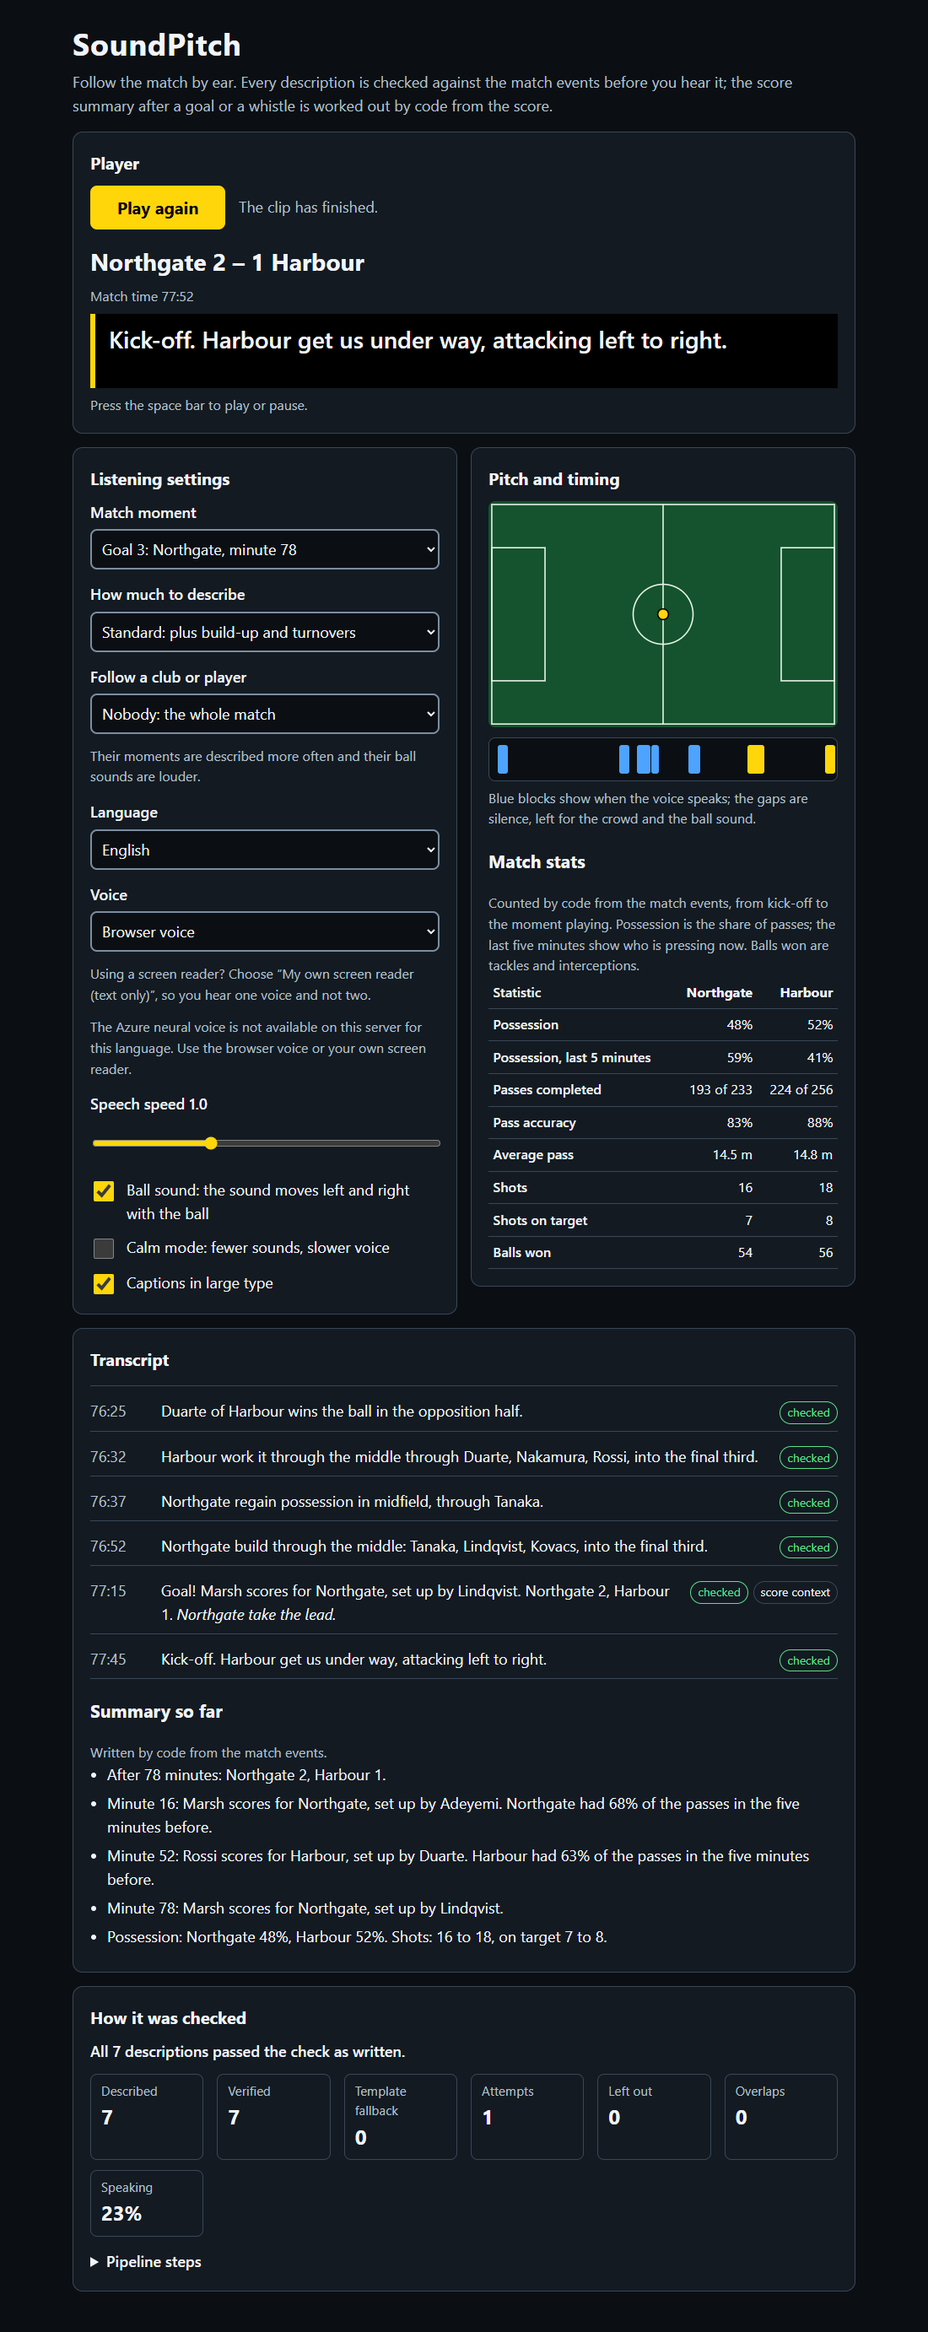
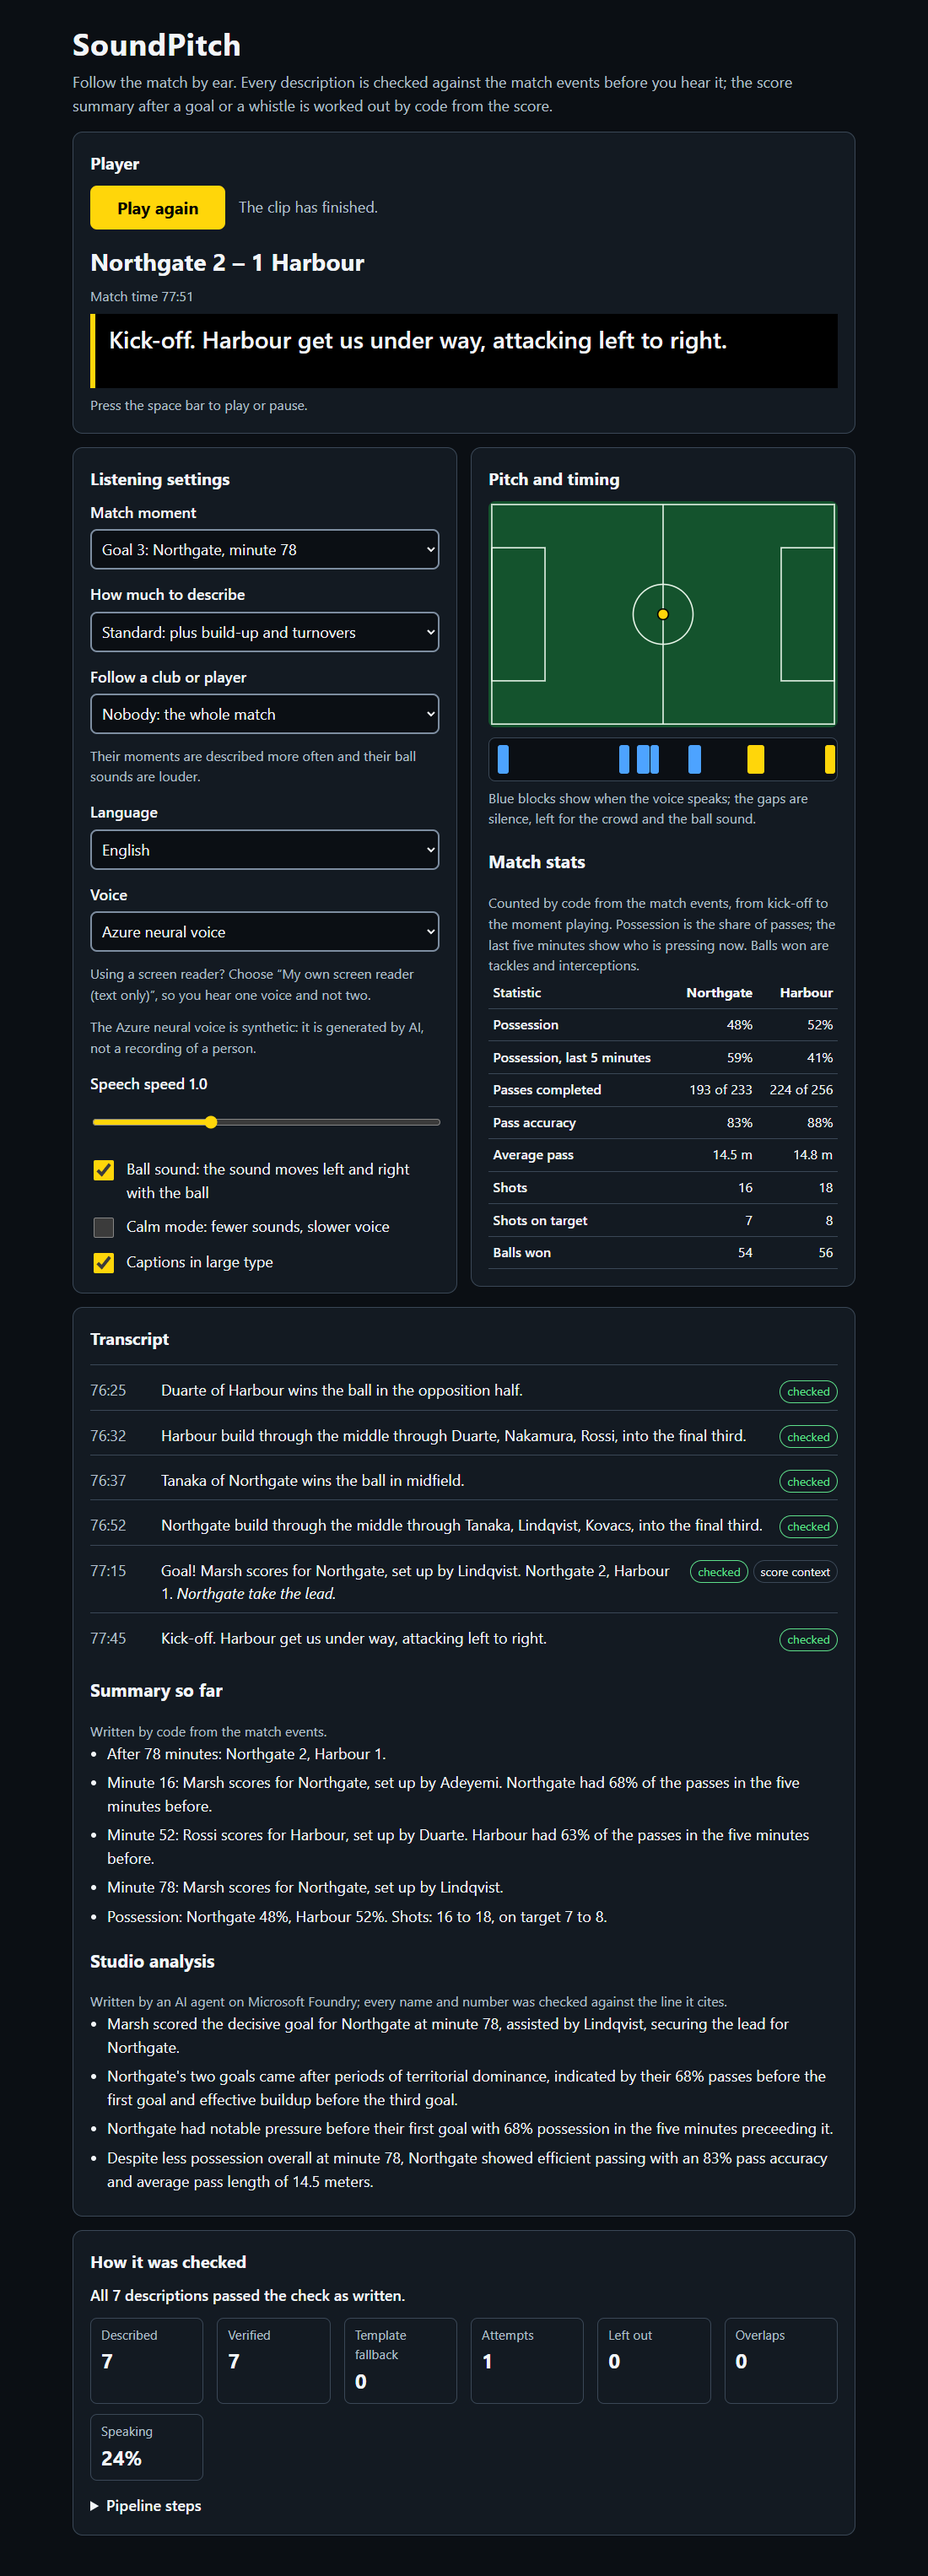
README screenshots from the live demo
Taken from the deployed image after playback: the Azure voice selected, the summary written by code and the Analyst agent's checked points.

diff --git a/README.md b/README.md
@@ -51,9 +51,9 @@ The image runs `SOUNDPITCH_LLM=replay`: words that the Foundry describer and the
 
 ## Screenshots
 
-Local run in replay mode (recorded Foundry replies, no network), window "Goal 3: Northgate, minute 78", after playback. The goal sentence is verified; the italic closing sentence with the "score context" badge is written by code from the score and is not covered by the verifier.
+The live demo (replay mode: recorded Foundry replies and stored Azure voices), window "Goal 3: Northgate, minute 78", after playback. The goal sentence is verified; the italic closing sentence with the "score context" badge is written by code from the score and is not covered by the verifier.
 
-![The SoundPitch player after Goal 3, in English: the large caption, the listening settings, the pitch with the timeline of speech and silence, the match stats table, the transcript with the "checked" and "score context" badges, and the report "How it was checked".](docs/images/player-goal-en.png)
+![The SoundPitch player after Goal 3, in English: the large caption, the listening settings, the pitch with the timeline of speech and silence, the match stats table, the transcript, the summary written by code, the Analyst agent's checked points with the "checked" and "score context" badges, and the report "How it was checked".](docs/images/player-goal-en.png)
 
 ![The same window in Italian: the commentary is marked with its own language, and the score-context sentence is in Italian.](docs/images/player-goal-it.png)
 
